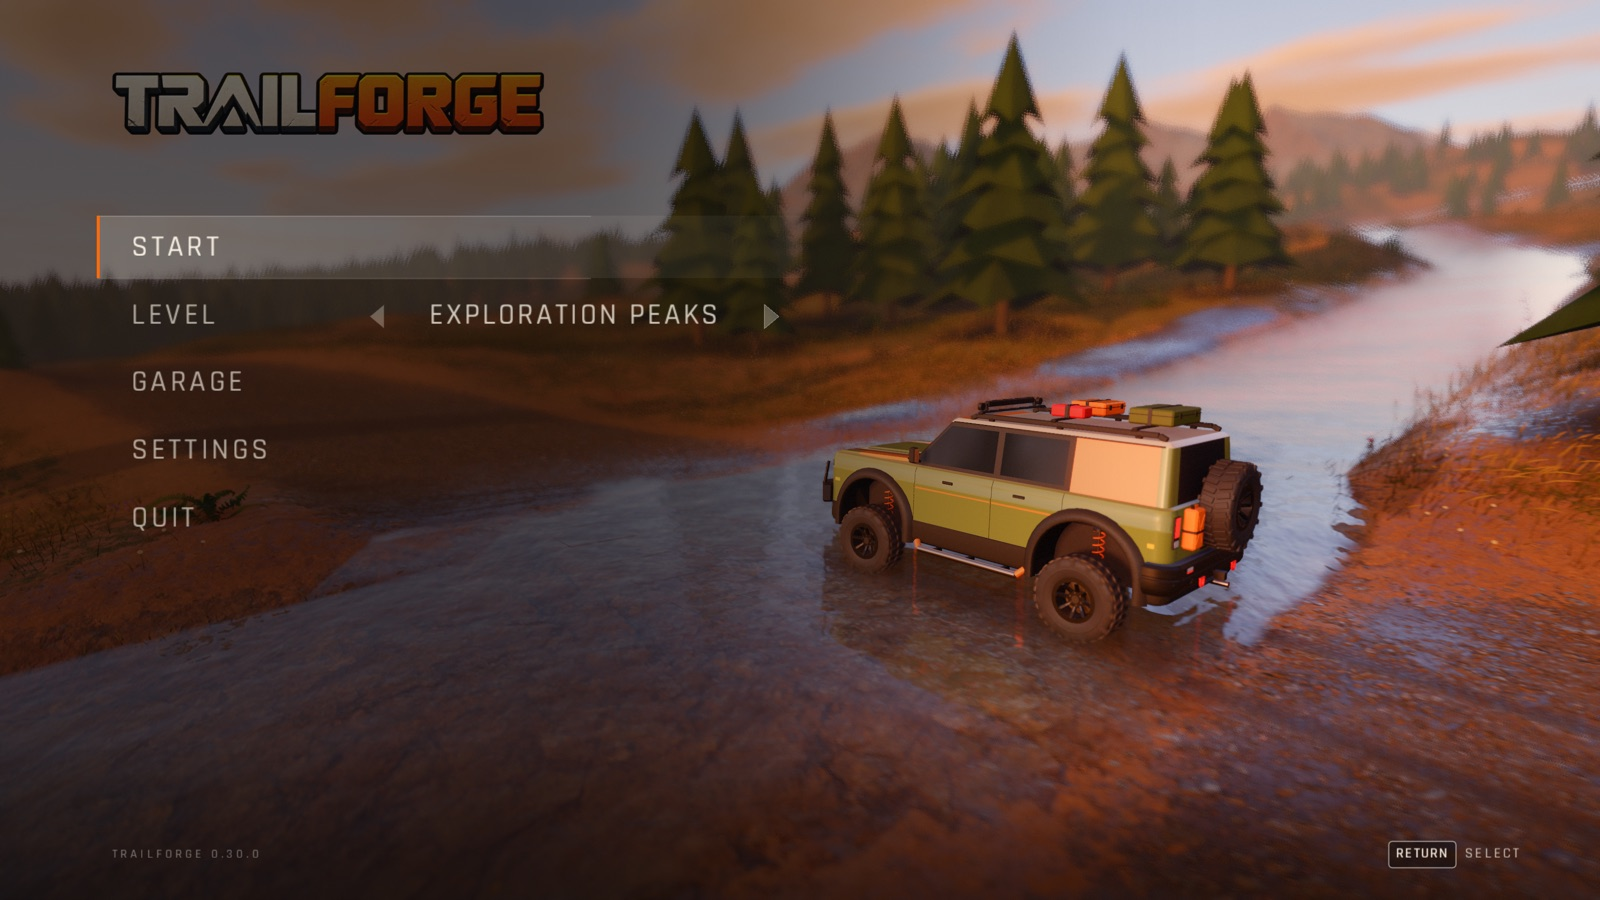
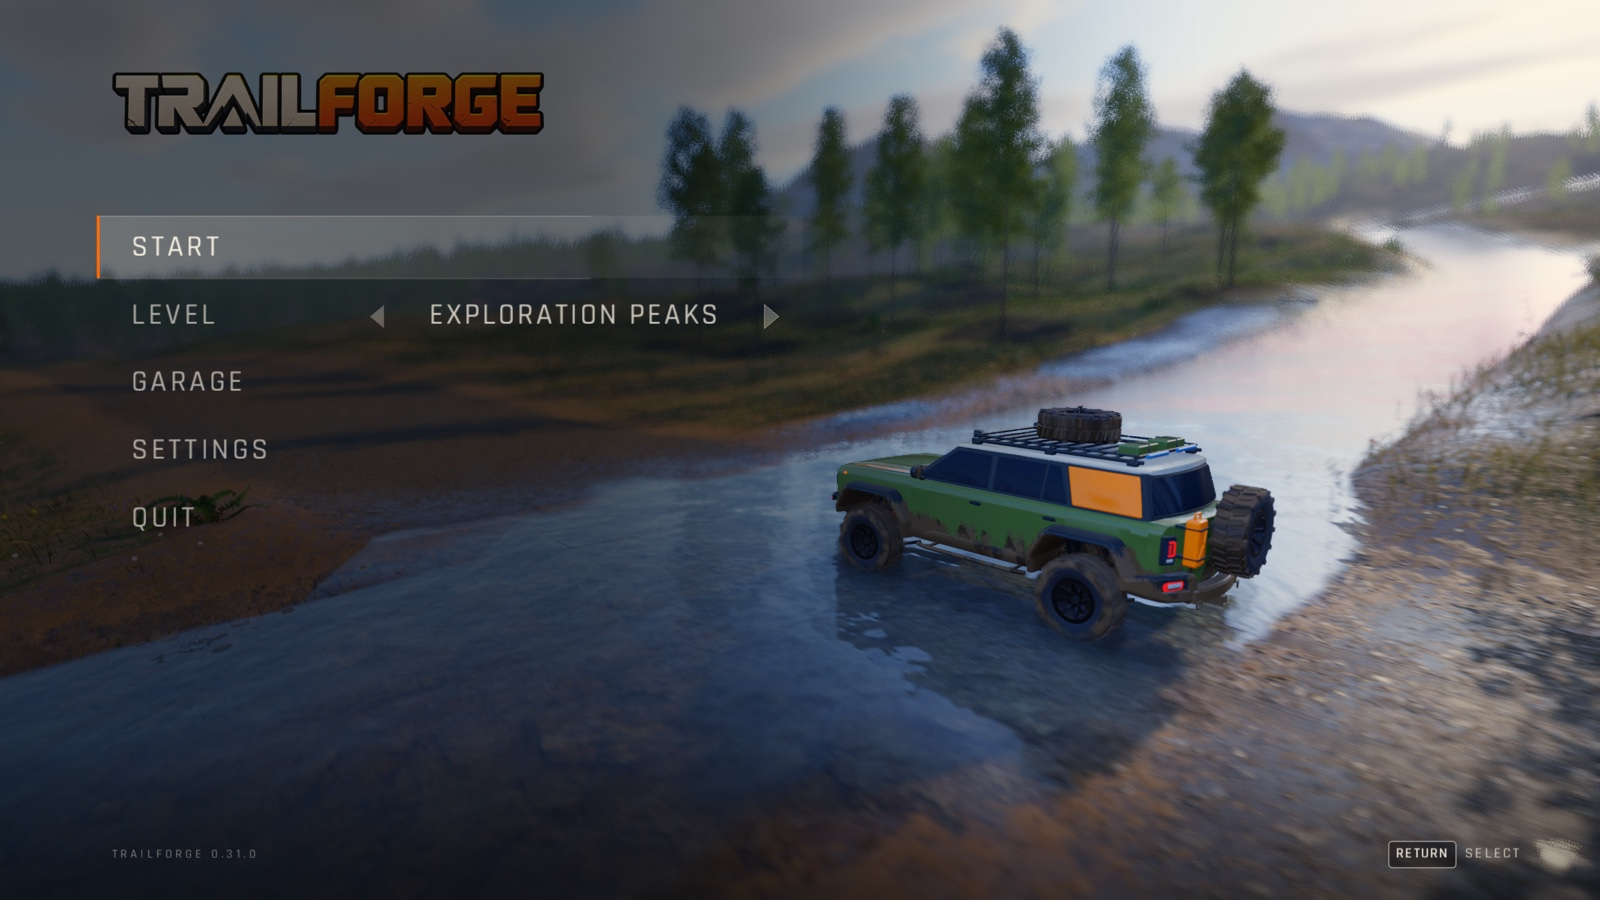
Refresh the menu screenshot and diversify the README gallery
Capture Expedition with detailed trees in the current menu and a distinct front view at Alpine Lake. Keep the approved forest hero. Menu capture checks 7/7, lake checks 4/4; inspect and export both images at 1600x900. No engine changes.

diff --git a/docs/testing.md b/docs/testing.md
@@ -165,10 +165,11 @@ proving ground and on Suncoast Raceway; `/tmp/trailforge_drift_*.png`),
 `tools/scenarios/time_of_day.txt` (Dawn/Noon/Sunset/Night and a banner-like sunset view, `/tmp/trailforge_tod_*.png`),
 `tools/scenarios/tree_style.txt` (Exploration Peaks with STYLIZED and DETAILED trees, meadow, high and ford views,
 `/tmp/trailforge_trees_*.png`),
-`tools/scenarios/readme_shots.txt` (the README start menu over Exploration Peaks, Ultra,
-`/tmp/trailforge_readme_01_menu.png`; the header has the `sips` line that makes
-`docs/menu.jpg`; `expedition_photos.txt` and `expedition_meadow_photos.txt` capture the morning
-Expedition action views in `docs/forest.jpg` and `docs/meadow.jpg`),
+`tools/scenarios/readme_shots.txt` (Expedition with detailed trees: current start menu and a front three-quarter
+Alpine Lake portrait, morning light, Ultra; captures `/tmp/trailforge_readme_01_menu.png` and
+`/tmp/trailforge_readme_lake_final.png` become `docs/menu.jpg` and `docs/lake.jpg`),
+`tools/scenarios/expedition_photos.txt` (the approved morning forest action view, about 74 km/h, detailed trees,
+cosmetic dirt and motion blur; third capture becomes `docs/forest.jpg`),
 `tools/scenarios/perf_presets.txt` (frame times per quality preset),
 `tools/scenarios/exploration_check.txt` (Exploration Peaks: spawn, a coast-road drive across a tile border with the
 streaming numbers, a ford, the deep-water recovery, the play-limit warning, all 13 POI teleports, the map, the EV

diff --git a/devlog/2026-11-03.md b/devlog/2026-11-03.md
@@ -1,0 +1,33 @@
+# Devlog — 2026-11-03 (Tuesday)
+
+## Goal of the day
+
+Finish the README screenshot refresh: replace the missed menu shot and distinguish the secondary view from the forest hero.
+
+## Stages
+
+- **00:03 — Screenshot correction (completed).** Retain the user-approved forest hero; capture the current
+  Expedition in the menu with detailed trees and morning light, plus a front three-quarter lake portrait.
+
+- **00:09 — Screenshot correction verified.** Captured menu with Expedition, detailed trees,
+  morning light and version 0.31.0 (7 scenario checks passed). Selected a distinct front three-quarter portrait
+  beside Alpine Lake and the pier (4 checks passed). Inspected both captures; saved 1600x900 JPEGs at quality 90.
+  Replaced menu.jpg and added lake.jpg; removed the similar meadow.jpg and its now-unused capture script.
+  Preserved forest.jpg unchanged. Updated README, scenario and testing documentation; no engine changes.
+
+## Problems and solutions
+
+- The previous refresh left menu.jpg unchanged and selected two similar rear three-quarter action views.
+
+## Results
+
+- Both new captures visually inspected. Menu run: 7/7 checks; lake run: 4/4.
+- Three distinct compositions: forest action, lake front view and current menu.
+
+## Limitations and open questions
+
+- Documentation captures only; no engine change planned.
+
+## Next steps
+
+1. Keep the capture scenarios in sync when the vehicle or menu changes.

diff --git a/README.md b/README.md
@@ -12,7 +12,7 @@ is believable vehicle behavior: mass, suspension travel, wheelspin, grip at the 
 
 | | |
 |---|---|
-| ![Expedition crossing wildflowers in morning light](docs/meadow.jpg) | ![Start menu over Exploration Peaks](docs/menu.jpg) |
+| ![Expedition at Alpine Lake with mountains in the morning](docs/lake.jpg) | ![Start menu over Exploration Peaks](docs/menu.jpg) |
 
 ## Features
 
